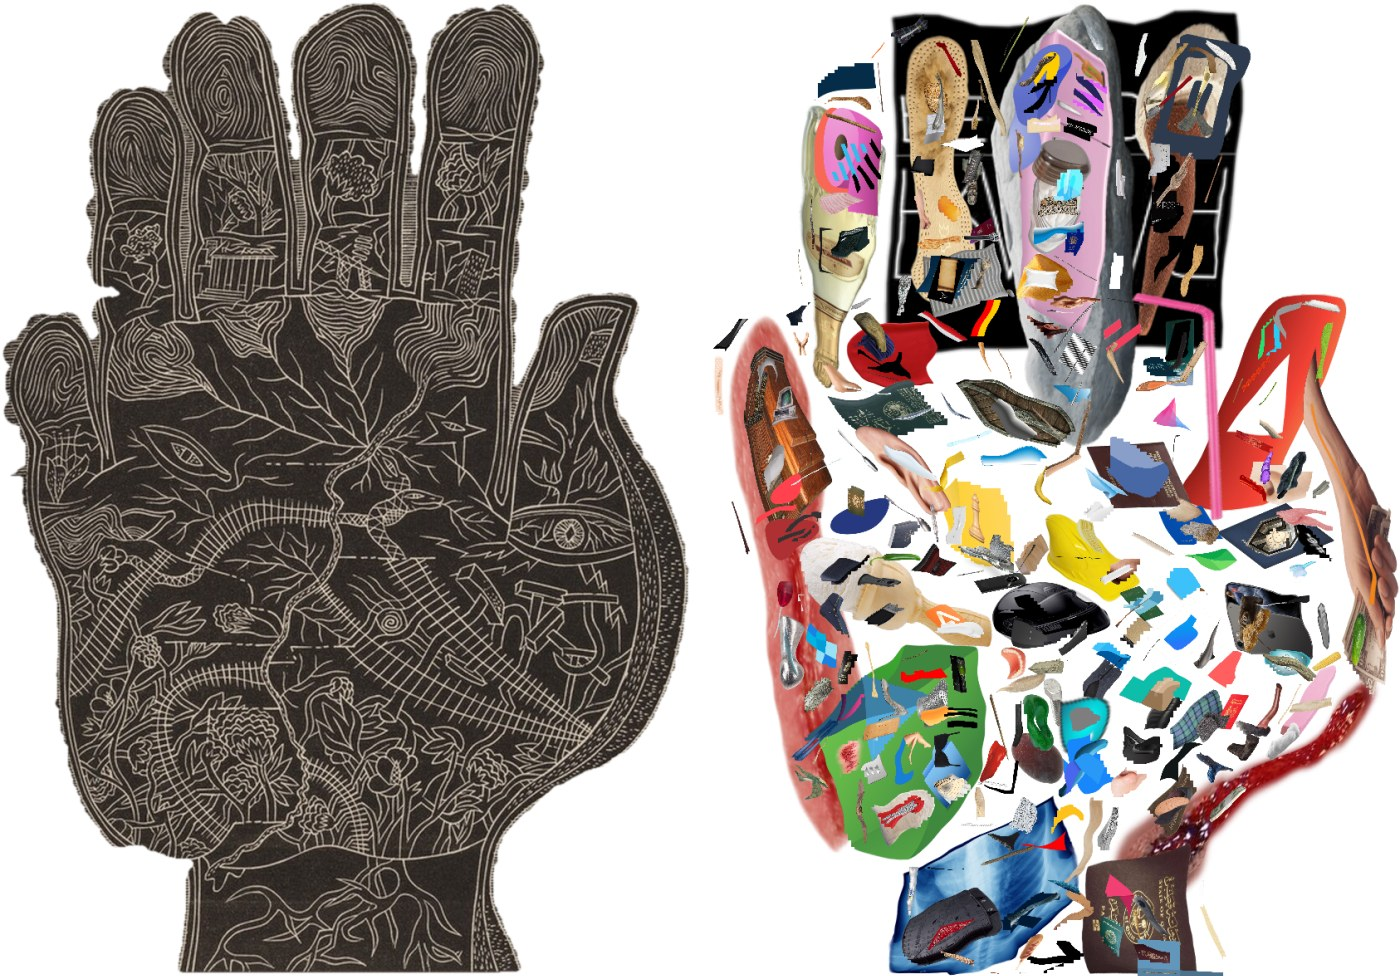
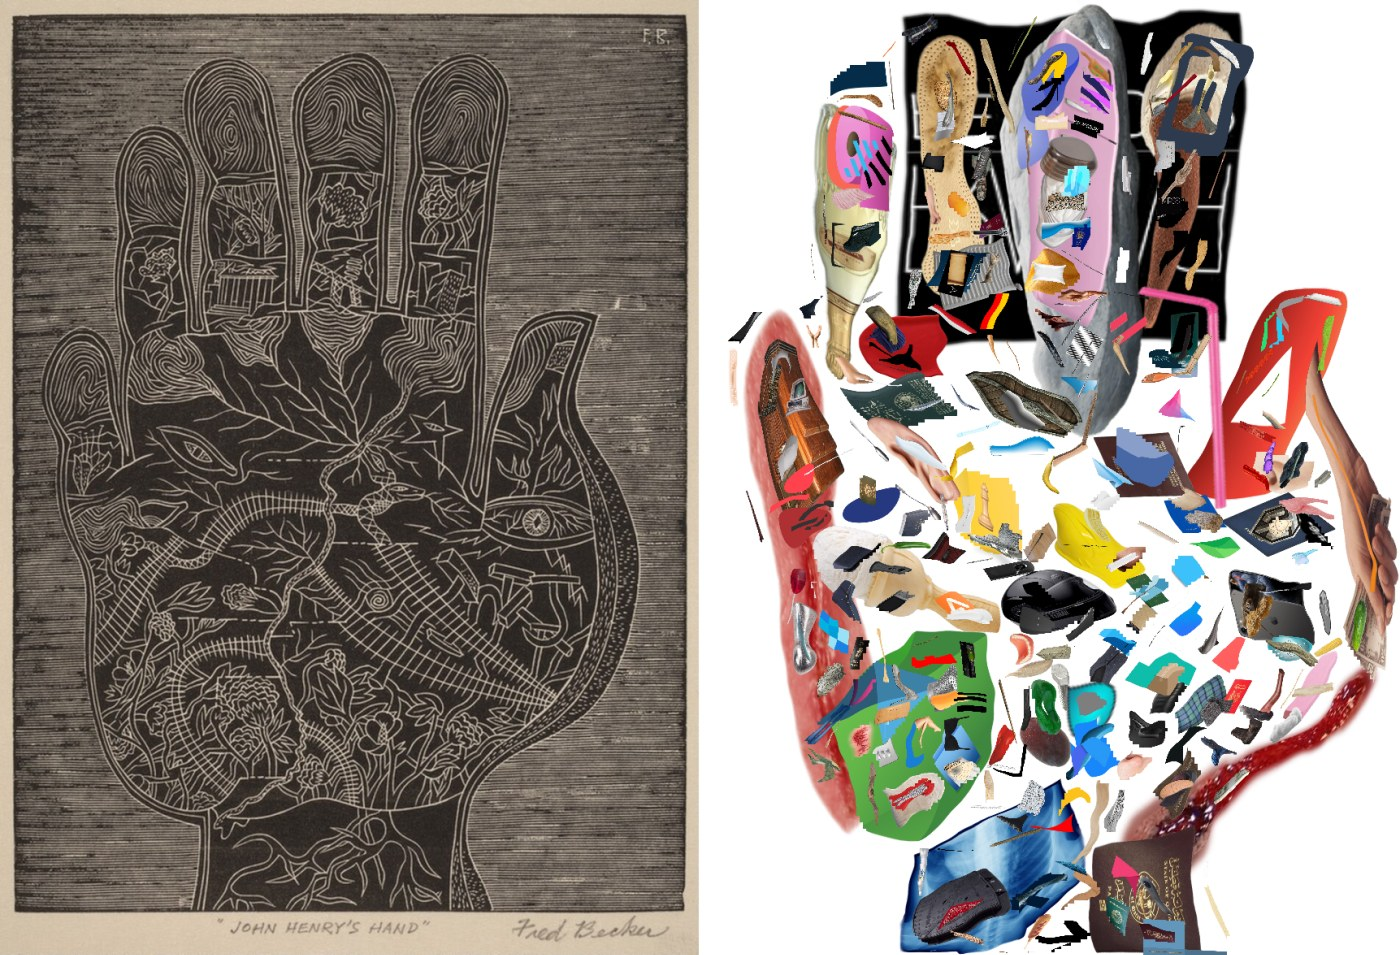
README: credit Fred Becker's engraving and show the full original
Full museum credit line, "wood engraving" instead of "woodcut", and the README
image now pairs the original print (not the cutout) with the v13 composite.

Claude-Session: https://claude.ai/code/session_01KdAHJuEcoKb9mk9rWbXnwT

diff --git a/README.md b/README.md
@@ -5,14 +5,17 @@ gently warped so that its outlines land on the line work of a target image (the 
 finished piece shows only the icons, at full opacity and in their original colours, with smaller
 icons drawn on top of larger ones.
 
-The primary here is the woodcut
-[*John Henry's Hand*](https://americanart.si.edu/artwork/john-henrys-hand-1691) (Smithsonian
-American Art Museum), cut out from its background (`data/hand_cutout.png`). The library is ~50,000
+The primary here is Fred Becker's wood engraving *John Henry's Hand* (1935), cut out from its
+background (`data/hand_cutout.png`). The library is ~50,000
 transparent PNGs; it is not part of this repository.
 
-![The woodcut (left) and the current best result, v13: 342 icons, 73.5% visible coverage (right)](docs/current_best_v13.jpg)
+> Fred Becker, [*John Henry's Hand*](https://americanart.si.edu/artwork/john-henrys-hand-1691),
+> 1935, wood engraving, image: 6 1⁄8 x 4 5⁄8 in. (15.4 x 11.6 cm), Smithsonian American Art
+> Museum, Transfer from D.C. Public Library, 1967.72.30
 
-*Left: the original woodcut. Right: the current best result (v13): 342 icons covering 73.5% of
+![The wood engraving (left) and the current best result, v13: 342 icons, 73.5% visible coverage (right)](docs/current_best_v13.jpg)
+
+*Left: the original wood engraving. Right: the current best result (v13): 342 icons covering 73.5% of
 its lines with visible icon outlines.*
 
 ## How it works
@@ -43,8 +46,8 @@ its lines with visible icon outlines.*
 |---|---|
 | `src/` | All code. Modules import each other by plain name, so run them as `python src/<module>.py`. |
 | `configs/` | The search flags of each run (`flags_vN.txt`). |
-| `data/` | The primary and its source woodcut, and `excluded.txt`: library images rejected by hand, relative to the library root. |
-| `docs/` | README images, and how the hand was cut out of the woodcut (`segmentation_steps/`). |
+| `data/` | The primary and its source engraving, and `excluded.txt`: library images rejected by hand, relative to the library root. |
+| `docs/` | README images, and how the hand was cut out of the engraving (`segmentation_steps/`). |
 | `scripts/runs/` | One script per run, with that run's full command line. |
 | `scripts/` | `resume.sh RUN`, `pause.sh RUN` and `schedule.sh RUN 'YYYY-MM-DD HH:MM:SS'`: start, stop or schedule a run as a systemd user service. |
 | `runs/` | Not tracked: outputs, checkpoints, trained scorers, library embeddings and caches. |
@@ -102,5 +105,5 @@ re-measures them the v12 way.
 ## License
 
 The code and documentation are released into the public domain under the
-[Unlicense](LICENSE). This does not cover third-party images: the woodcut in `data/` and the
+[Unlicense](LICENSE). This does not cover third-party images: the engraving in `data/` and the
 library icons visible in `docs/current_best_v13.jpg` keep their original rights.
